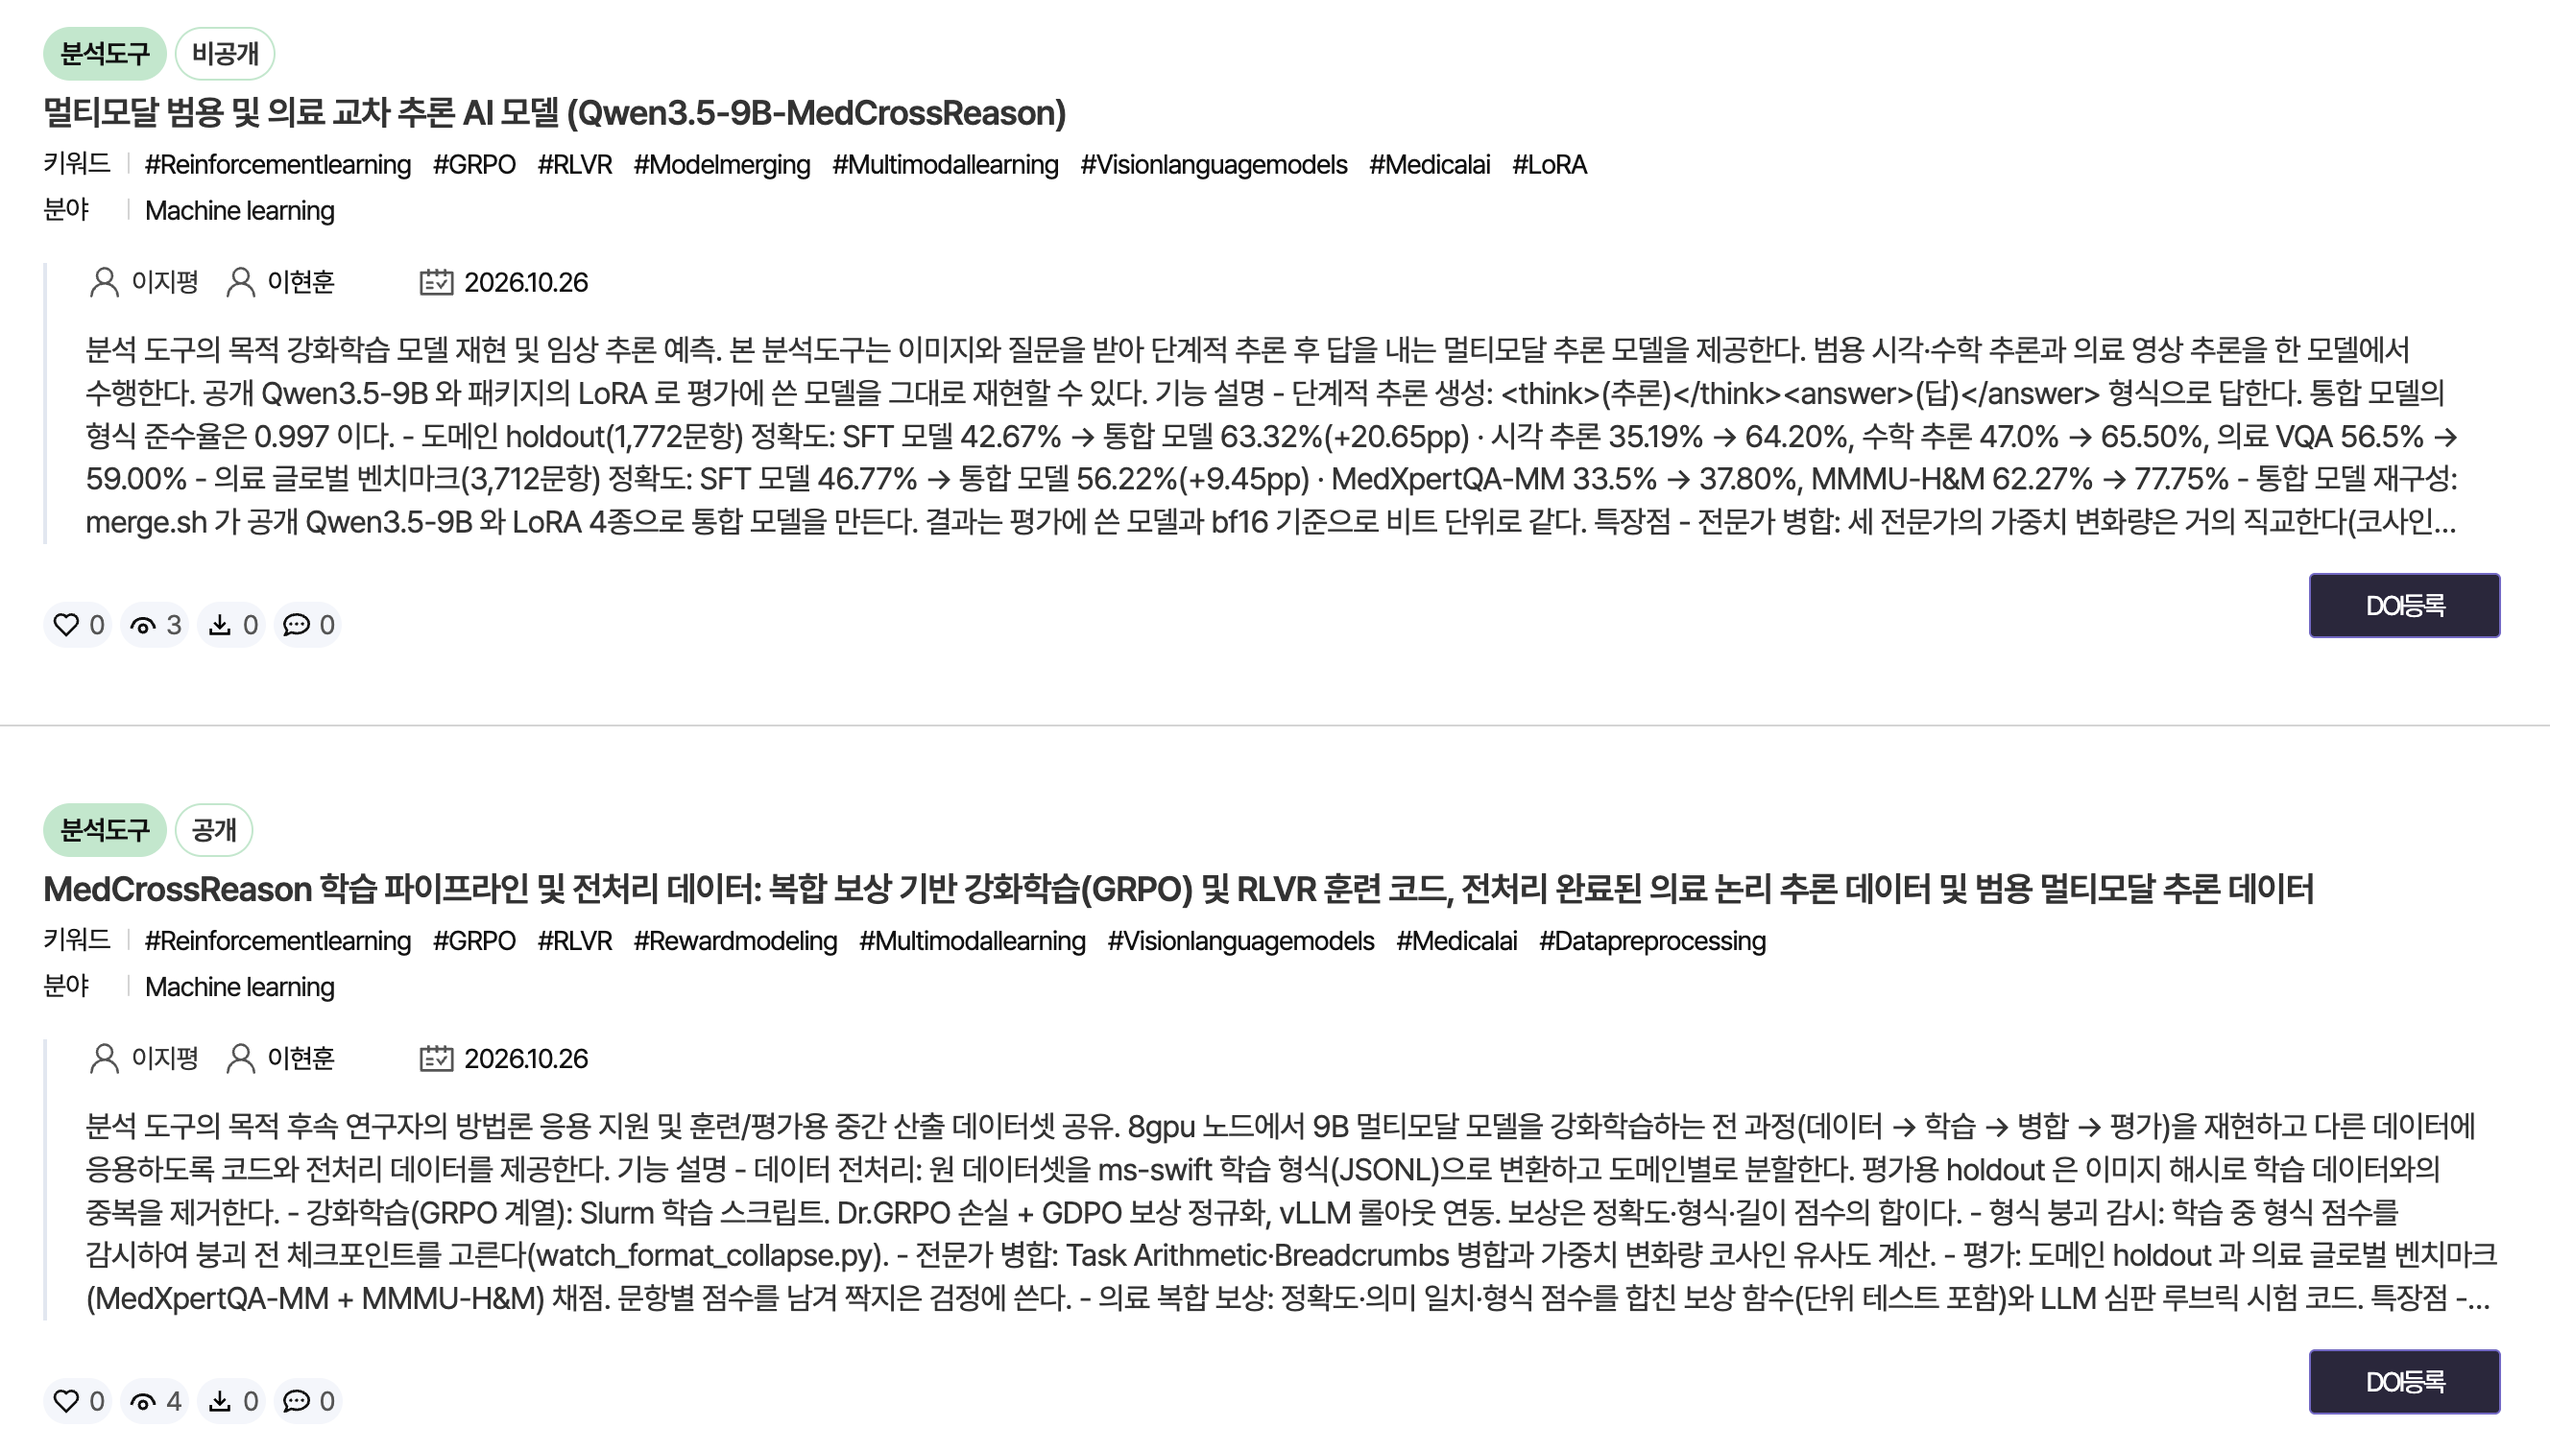
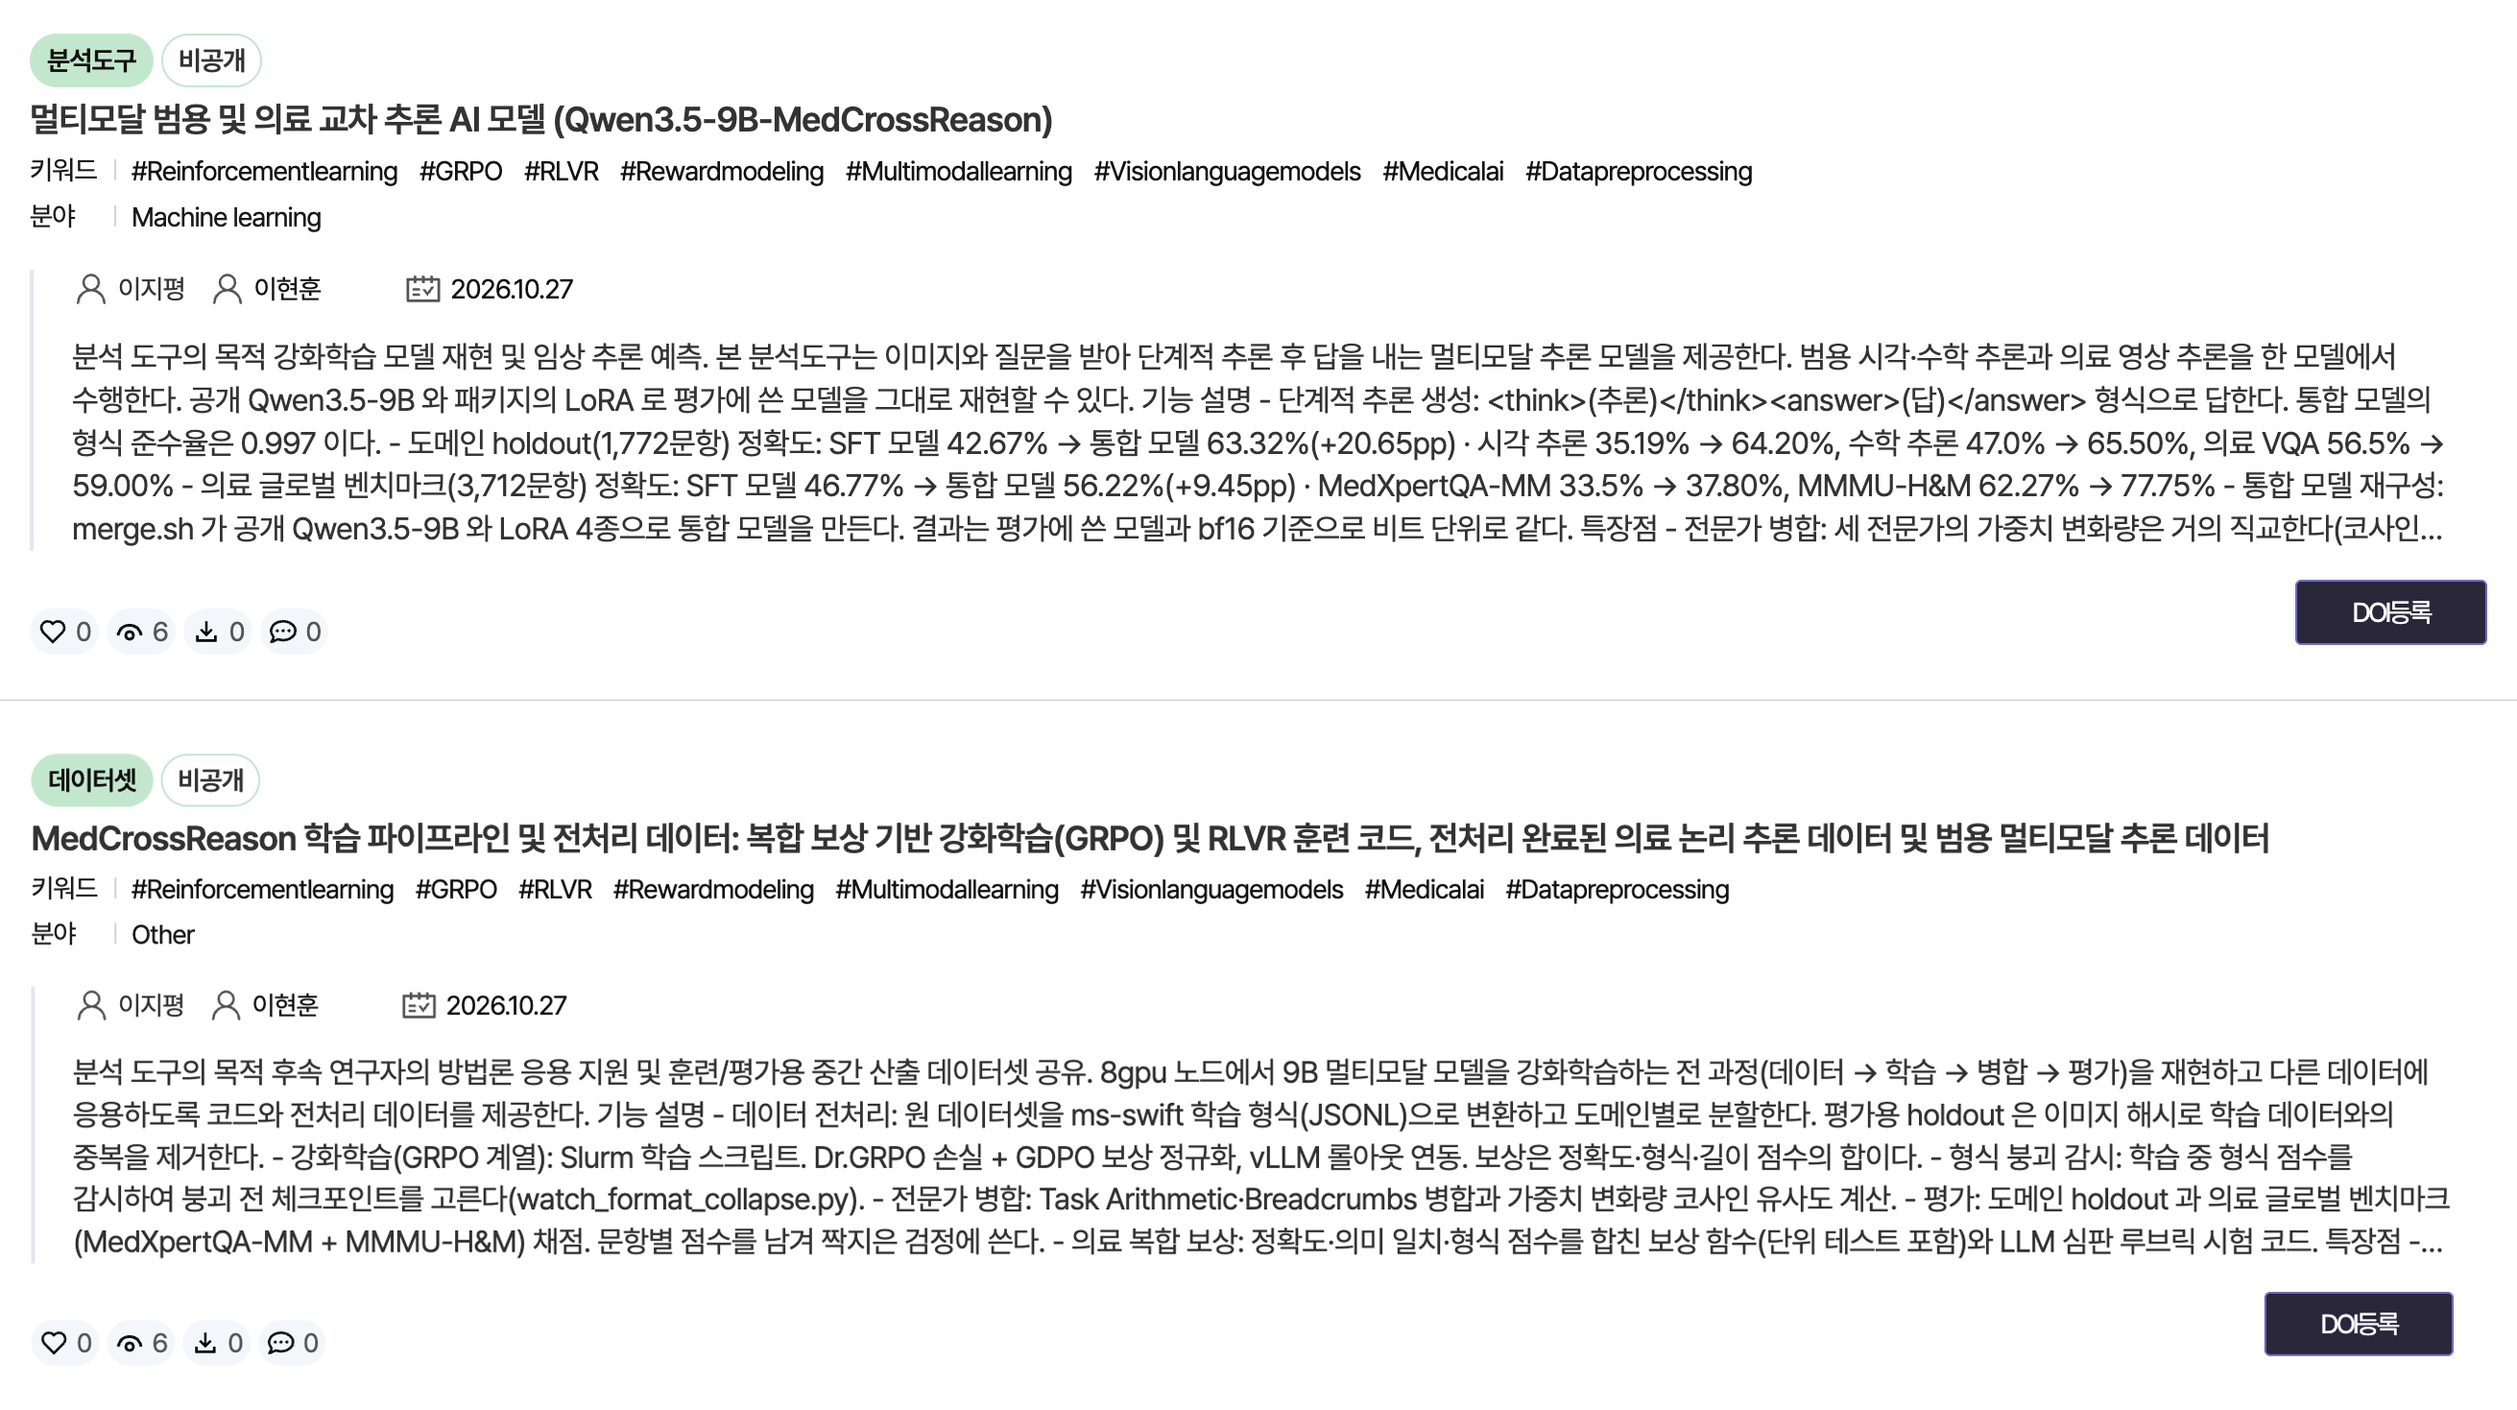
docs: 마켓플레이스 ② 를 비공개로 바꾼 것을 보고서에 반영 — 산출물 표·계획서 대비 변경·캡처 설명을 비공개로, 등록 화면 캡처를 새 화면(두 항목 모두 비공개)으로 교체. HWP·PDF 도 같이(6쪽 유지)

diff --git a/docs/99_report_draft.html b/docs/99_report_draft.html
@@ -179,15 +179,15 @@ td table{display:block;overflow-x:auto}
 <td>멀티모달 범용 및 의료 교차 추론 AI 모델(Qwen3.5-9B-MedCrossReason)<br>목적: 강화학습 모델 재현 및 임상 추론 예측<br>정보: 통합 모델(Qwen3.5-9B 기반)의 Hugging Face 가중치. 이 가중치는 평가에 쓴 모델 원본임(bf16, 18GB). 재현용 LoRA 4종(SFT 1종, 전문가 3종, r=16)과 병합 스크립트(<code>merge.sh</code>)를 함께 제공함.<br>등록: 마켓플레이스에 비공개로 등록함. 가중치는 Hugging Face 비공개 저장소에 등록함. 마켓플레이스 항목에서 이 저장소로 연결함.</td>
 <td>Hugging Face 가중치(safetensors). 저장소에서 불러와 vLLM 0.19.1·transformers 5.6.2 로 모델 실행(추론)을 확인함.</td></tr>
 <tr><td>데이터</td>
-<td>전처리 완료된 의료 논리 추론 데이터 및 범용 멀티모달 추론 데이터<br>목적: 학습·평가용 중간 산출 데이터셋 공유<br>정보: 의료 논리 추론 데이터(medix-rl-data 전처리본, 51,335건), 범용 멀티모달 추론 데이터(시각 추론 40,000건), 의료 VQA 데이터(19,583건), 평가용 holdout 1,372건. MMK12 는 라이선스가 명시되지 않아 문항 번호만 제공함. 글로벌 벤치마크 문항은 원 벤치마크 라이선스 때문에 재배포하지 않음. 평가 코드만 제공함.<br>등록: 원 데이터 중 DeepVision-103K·medix-rl-data 는 K-BDS 플랫폼에 등록함(등록번호 10.23220/KBDSC_20260306133407_2096, 10.23220/KBDSC_20260306133400_2097). 전처리 데이터는 마켓플레이스에 공개로 등록함.</td>
+<td>전처리 완료된 의료 논리 추론 데이터 및 범용 멀티모달 추론 데이터<br>목적: 학습·평가용 중간 산출 데이터셋 공유<br>정보: 의료 논리 추론 데이터(medix-rl-data 전처리본, 51,335건), 범용 멀티모달 추론 데이터(시각 추론 40,000건), 의료 VQA 데이터(19,583건), 평가용 holdout 1,372건. MMK12 는 라이선스가 명시되지 않아 문항 번호만 제공함. 글로벌 벤치마크 문항은 원 벤치마크 라이선스 때문에 재배포하지 않음. 평가 코드만 제공함.<br>등록: 원 데이터 중 DeepVision-103K·medix-rl-data 는 K-BDS 플랫폼에 등록함(등록번호 10.23220/KBDSC_20260306133407_2096, 10.23220/KBDSC_20260306133400_2097). 전처리 데이터는 마켓플레이스에 비공개로 등록함.</td>
 <td>JSONL 및 이미지 포맷. 이미지는 원 데이터셋 경로로 참조함. DeepVision-103K·medix-rl-data 이미지는 K-BDS 등록본을 참조함. K-BDS 플랫폼 표준 등록 지침을 따름.</td></tr>
 <tr><td>파이프라인</td>
-<td>RLVR 학습 코드(GRPO 계열) 및 의료 복합 보상 강화학습 코드<br>목적: 후속 연구자의 방법론 응용 지원<br>정보(학습): RLVR 학습 스크립트(Slurm), 의료 강화학습 스크립트, 의료 복합 보상 함수, LLM 심판 시험 스크립트<br>정보(도구): 데이터 전처리 스크립트, 형식 붕괴 감시 도구, 전문가 병합 스크립트, 평가 스크립트(holdout·글로벌 벤치마크)<br>등록: 데이터와 함께 마켓플레이스에 공개로 등록함. GitHub 저장소에도 공개함.</td>
+<td>RLVR 학습 코드(GRPO 계열) 및 의료 복합 보상 강화학습 코드<br>목적: 후속 연구자의 방법론 응용 지원<br>정보(학습): RLVR 학습 스크립트(Slurm), 의료 강화학습 스크립트, 의료 복합 보상 함수, LLM 심판 시험 스크립트<br>정보(도구): 데이터 전처리 스크립트, 형식 붕괴 감시 도구, 전문가 병합 스크립트, 평가 스크립트(holdout·글로벌 벤치마크)<br>등록: 데이터와 함께 마켓플레이스에 비공개로 등록함. 코드는 GitHub 저장소에 공개함.</td>
 <td>Python 3.12, PyTorch 2.10(CUDA 12.9), ms-swift 4.1.3, vLLM 0.19.1 연동 스크립트, DeepSpeed 설정 파일, Slurm + 컨테이너 실행 스크립트</td></tr>
 </table>
-<p class="note">※ 계획서 대비 변경: 분산 학습 방식을 DeepSpeed ZeRO-3 에서 LoRA 데이터 병렬 학습(ms-swift, vLLM 연동)으로 바꿈. 의료 개방형 강화학습의 본 학습은 후속 과제로 넘김. 학습 데이터에 공개 데이터셋 MMK12·PMC-VQA(K-BDS 미등록)를 추가함. medix-rl-data 는 서술형 답이라 정답을 자동으로 확인하는 보상(RLVR)을 쓸 수 없음. 그래서 자동 채점이 되는 수학 추론(MMK12)·객관식 의료 VQA(PMC-VQA) 데이터를 더함. 통합 모델 가중치는 비공개로 기탁함.</p>
-<p class="note">※ 마켓플레이스 등록 화면(2026-10-26): 위는 모델(비공개), 아래는 데이터·파이프라인(공개).</p>
-<img src="assets/marketplace_registration.png" alt="K-BDS 마켓플레이스 등록 화면: 모델(비공개)과 데이터·파이프라인(공개)" style="max-width:100%">
+<p class="note">※ 계획서 대비 변경: 분산 학습 방식을 DeepSpeed ZeRO-3 에서 LoRA 데이터 병렬 학습(ms-swift, vLLM 연동)으로 바꿈. 의료 개방형 강화학습의 본 학습은 후속 과제로 넘김. 학습 데이터에 공개 데이터셋 MMK12·PMC-VQA(K-BDS 미등록)를 추가함. medix-rl-data 는 서술형 답이라 정답을 자동으로 확인하는 보상(RLVR)을 쓸 수 없음. 그래서 자동 채점이 되는 수학 추론(MMK12)·객관식 의료 VQA(PMC-VQA) 데이터를 더함. 산출물은 모두 마켓플레이스에 비공개로 기탁함. 코드는 GitHub 에 공개함.</p>
+<p class="note">※ 마켓플레이스 등록 화면(2026-10-27): 위는 모델, 아래는 데이터·파이프라인. 두 항목 모두 비공개.</p>
+<img src="assets/marketplace_registration.png" alt="K-BDS 마켓플레이스 등록 화면: 모델과 데이터·파이프라인, 두 항목 모두 비공개" style="max-width:100%">
 </main>
 </body>
 </html>

diff --git a/docs/00_overview.html b/docs/00_overview.html
@@ -511,7 +511,7 @@ li{margin:3px 0}
 <ol>
 <li>결과보고서(연구요약서): 원본 양식 <code>(양식) 결과보고서(연구요약서).hwp</code> 에 결과보고서를 다 썼다(초안 <code>docs/99_report_draft.html</code>). 마켓플레이스 등록 화면 캡처도 6쪽에 넣었다(양식의 "등록 화면을 캡처하여 제출" 안내). 남은 일은 포털(마이페이지 > 성과관리 > 보고서 등록)에 올리는 것뿐이다. 마감은 과제 종료 후 1개월(약 2026-10-30)이다.</li>
 <li>통합 모델 가중치: Hugging Face 비공개 저장소 <code>easypyeong/Qwen3.5-9B-MedCrossReason</code> 에 올렸다(bf16, 18GB). 4개 파일의 sha256 이 KISTI 평가 모델과 같다. 모델 카드의 vLLM·transformers 예시를 카드 그대로 실행해 4문항 모두 정답임을 확인했다(<code>kgpu/card_test.sh</code>).</li>
-<li>마켓플레이스 기탁은 2건이다. 계획서의 "전면 개방"과 보고서의 "가중치 비공개"를 함께 지키려고 나누었다. ① 모델 <code>share/Qwen3.5-9B-MedCrossReason_KBDS2026-1.zip</code>(비공개): LoRA 4개(SFT 1개 + 전문가 3개), <code>merge.sh</code>(재구성본이 평가 모델과 bf16 기준 비트 단위로 같음). ② 데이터·파이프라인 <code>share/MedCrossReason-Data-Pipeline_KBDS2026-1.zip</code>(개인회원 공개): 도메인 데이터 3종 + medix 전처리본 51,335건 + holdout, 학습·복합 보상·심판·평가·병합 코드. 등록 문구는 각 폴더의 <code>MARKETPLACE.md</code> 에 있다. 2026-10-26 에 두 건 모두 등록했다(② 자료ID 3448).</li>
+<li>마켓플레이스 기탁은 2건이다. 계획서의 "전면 개방"과 보고서의 "가중치 비공개"를 함께 지키려고 나누었다. ① 모델 <code>share/Qwen3.5-9B-MedCrossReason_KBDS2026-1.zip</code>(비공개): LoRA 4개(SFT 1개 + 전문가 3개), <code>merge.sh</code>(재구성본이 평가 모델과 bf16 기준 비트 단위로 같음). ② 데이터·파이프라인 <code>share/MedCrossReason-Data-Pipeline_KBDS2026-1.zip</code>(2026-10-27 비공개로 바꿈. 코드는 GitHub 에 공개): 도메인 데이터 3종 + medix 전처리본 51,335건 + holdout, 학습·복합 보상·심판·평가·병합 코드. 등록 문구는 각 폴더의 <code>MARKETPLACE.md</code> 에 있다. 2026-10-26 에 두 건 모두 등록했다(② 자료ID 3448).</li>
 <li>2차: 통합 모델에서 Stage-3(medix RaR)를 시작한다. merging 후 보존율이 부족한 도메인이 있으면 증류(<a href="23_stage2ce_experts.html#partC">23 C.1</a> 의 계단 1~2)를 한다.</li>
 <li>MTP 를 고려한 서빙 설정 개선: 통합 모델에는 기반 모델의 MTP(다중 토큰 예측) 텐서 15개가 없다. LoRA 병합이 MTP 층을 다루지 않기 때문이다. 그래서 HF <code>config.json</code> 의 <code>mtp_num_hidden_layers</code> 를 0 으로 두었다. 개선 순서는 다음과 같다. (1) 공식 Qwen3.5-9B(revision <code>c2022362</code>)의 <code>mtp.*</code> 텐서를 별도 shard 로 붙이고 값을 1 로 되돌린다. 학습은 LoRA 라 MTP 층은 바뀌지 않았다. (2) kgpu 에서 vLLM 추측 디코딩을 켜고 정답 일치와 draft 수락률·처리량을 잰다. (3) 본체가 학습으로 바뀌어 수락률이 낮으면 통합 모델의 hidden state 로 MTP 층만 짧게 다시 학습한다. 추측 디코딩은 정답을 바꾸지 않으므로 평가 결과는 그대로다. 단 결과보고서의 "평가에 쓴 모델 원본" 문구와 맞추어야 한다.</li>
 </ol>
